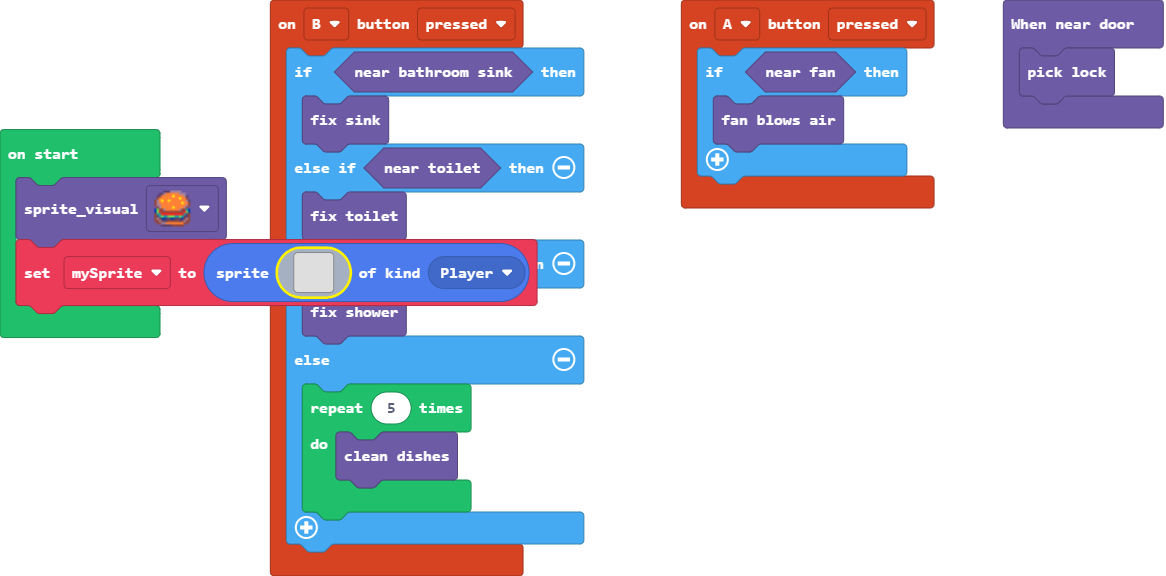
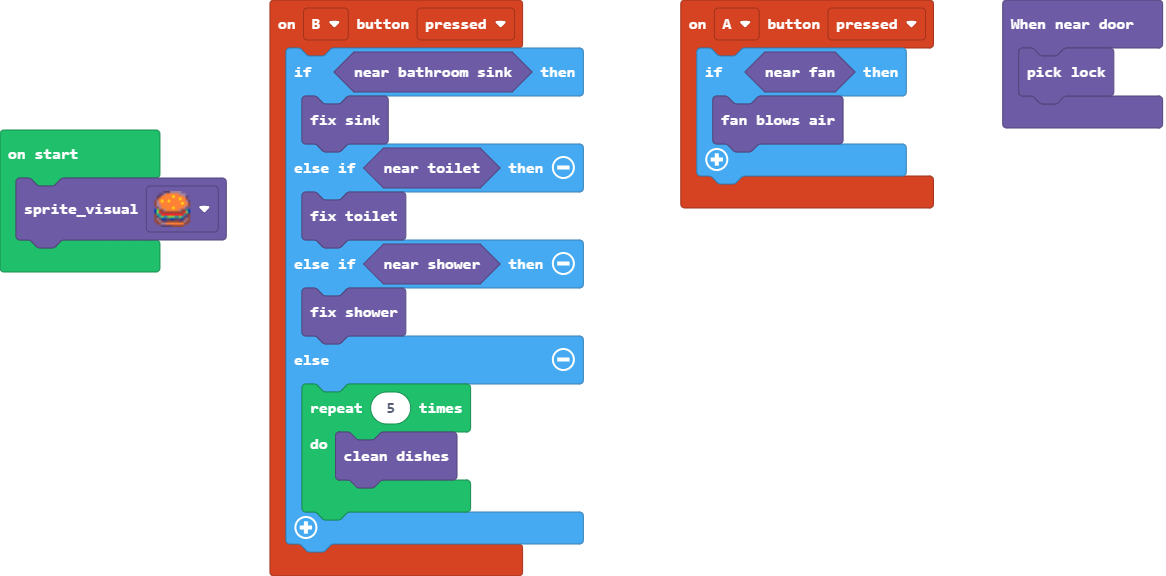
customize character in beginning

diff --git a/extension.ts b/extension.ts
@@ -157,27 +157,27 @@ let showerIsFixed = false
 let thePlayer: Sprite = null
 let wash_count = 0
 tiles.setTilemap(tilemap`level`)
-// thePlayer = sprites.create(img`
-//     . . . . . . . . . . b 5 b . . . 
-//     . . . . . . . . . b 5 b . . . . 
-//     . . . . . . b b b b b b . . . . 
-//     . . . . . b b 5 5 5 5 5 b . . . 
-//     . . . . b b 5 d 1 f 5 5 d f . . 
-//     . . . . b 5 5 1 f f 5 d 4 c . . 
-//     . . . . b 5 5 d f b d d 4 4 . . 
-//     . b b b d 5 5 5 5 5 4 4 4 4 4 b 
-//     b d d d b b d 5 5 4 4 4 4 4 b . 
-//     b b d 5 5 5 b 5 5 5 5 5 5 b . . 
-//     c d c 5 5 5 5 d 5 5 5 5 5 5 b . 
-//     c b d c d 5 5 b 5 5 5 5 5 5 b . 
-//     . c d d c c b d 5 5 5 5 5 d b . 
-//     . . c b d d d d d 5 5 5 b b . . 
-//     . . . c c c c c c c c b b . . . 
-//     . . . . . . . . . . . . . . . . 
-//     `, SpriteKind.Player)
-// tiles.placeOnRandomTile(thePlayer, myTiles.tile3)
-// controller.moveSprite(thePlayer)
-// scene.cameraFollowSprite(thePlayer)
+thePlayer = sprites.create(img`
+. . . . . . . . . . . . . . . . 
+. . . . . . . . . . . . . . . . 
+. . . . . . . . . . . . . . . . 
+. . . . . . . . . . . . . . . . 
+. . . . . . . . . . . . . . . . 
+. . . . . . . . . . . . . . . . 
+. . . . . . . . . . . . . . . . 
+. . . . . . . . . . . . . . . . 
+. . . . . . . . . . . . . . . . 
+. . . . . . . . . . . . . . . . 
+. . . . . . . . . . . . . . . . 
+. . . . . . . . . . . . . . . . 
+. . . . . . . . . . . . . . . . 
+. . . . . . . . . . . . . . . . 
+. . . . . . . . . . . . . . . . 
+. . . . . . . . . . . . . . . . 
+`, SpriteKind.Player)
+tiles.placeOnRandomTile(thePlayer, myTiles.tile3)
+controller.moveSprite(thePlayer)
+scene.cameraFollowSprite(thePlayer)
 game.showLongText("There shouldn't be any obstacles in here...", DialogLayout.Bottom)
 game.showLongText("Uh oh!", DialogLayout.Bottom)
 game.showLongText("The door's locked! Pick the lock using code.", DialogLayout.Bottom)

diff --git a/name.ts b/name.ts
@@ -4,10 +4,11 @@ namespace hoc {
     
     //%block
     export function sprite_visual (inputImage:Image) {
-        thePlayer = sprites.create(inputImage, SpriteKind.Player)
-        tiles.placeOnRandomTile(thePlayer, myTiles.tile3)
-        controller.moveSprite(thePlayer)
-        scene.cameraFollowSprite(thePlayer)
+        thePlayer.setImage(inputImage)
+        // thePlayer = sprites.create(inputImage, SpriteKind.Player)
+        // tiles.placeOnRandomTile(thePlayer, myTiles.tile3)
+        // controller.moveSprite(thePlayer)
+        // scene.cameraFollowSprite(thePlayer)
     }  
 
     //%block="When near door"

diff --git a/main.ts b/main.ts
@@ -20,4 +20,3 @@ hoc.near_door(function () {
     hoc.pick_lock()
 })
 hoc.sprite_visual(sprites.food.smallBurger)
-

diff --git a/hocTutorial.md b/hocTutorial.md
@@ -25,6 +25,10 @@ Finally! Quarantine is over and you can go see your friends. But, you've been in
 for so long that some obstacles have sprung up between you and the front door. Luckily, you
 can use code to get past them! 
 
+## Customize sprite
+First, you'll need to choose your character. From the ``||Hoc:Hoc||`` drawer, find the ``||Hoc: sprite visual||``
+block. Drag this into the green ``||loops: on start||`` block. Then click on the drop down menu to choose your character.
+
 ## Room 1, pt 1 @fullscreen
 In order to pick the door's lock, you need to use an Event block. An **Event** is something that 
 triggers the code to run. In this case, the event is being near the door, and the code that 
